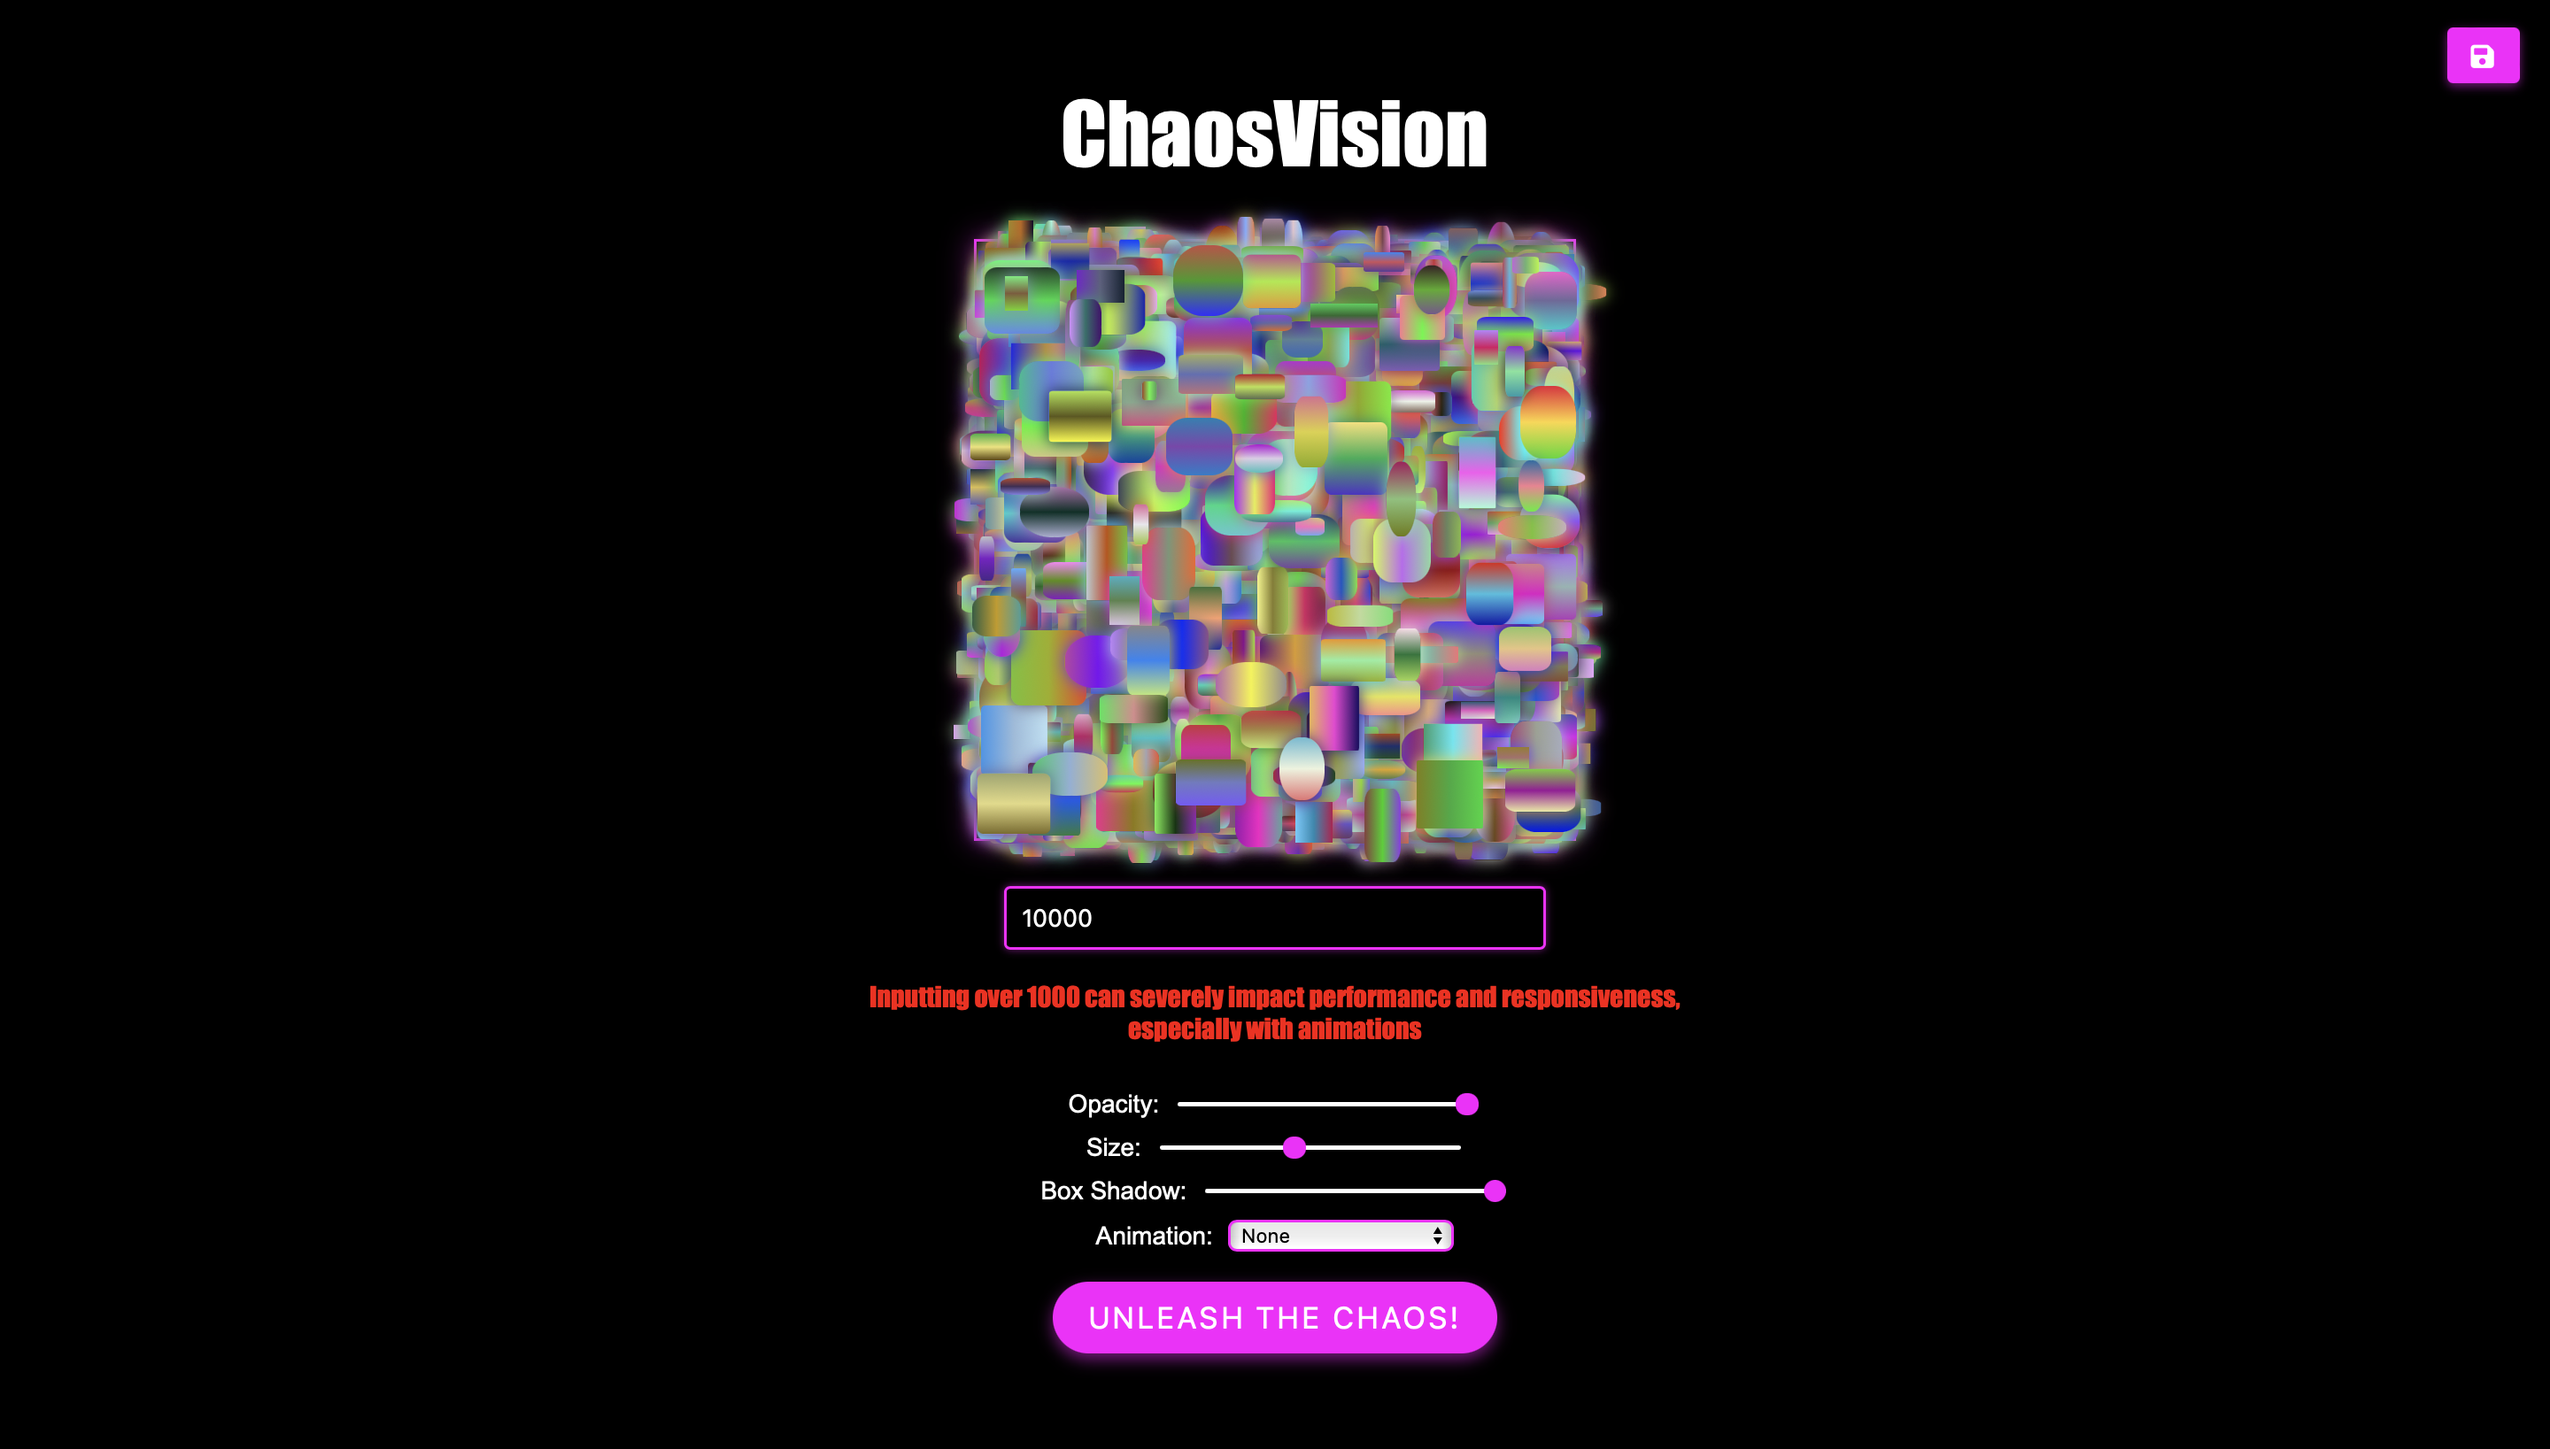
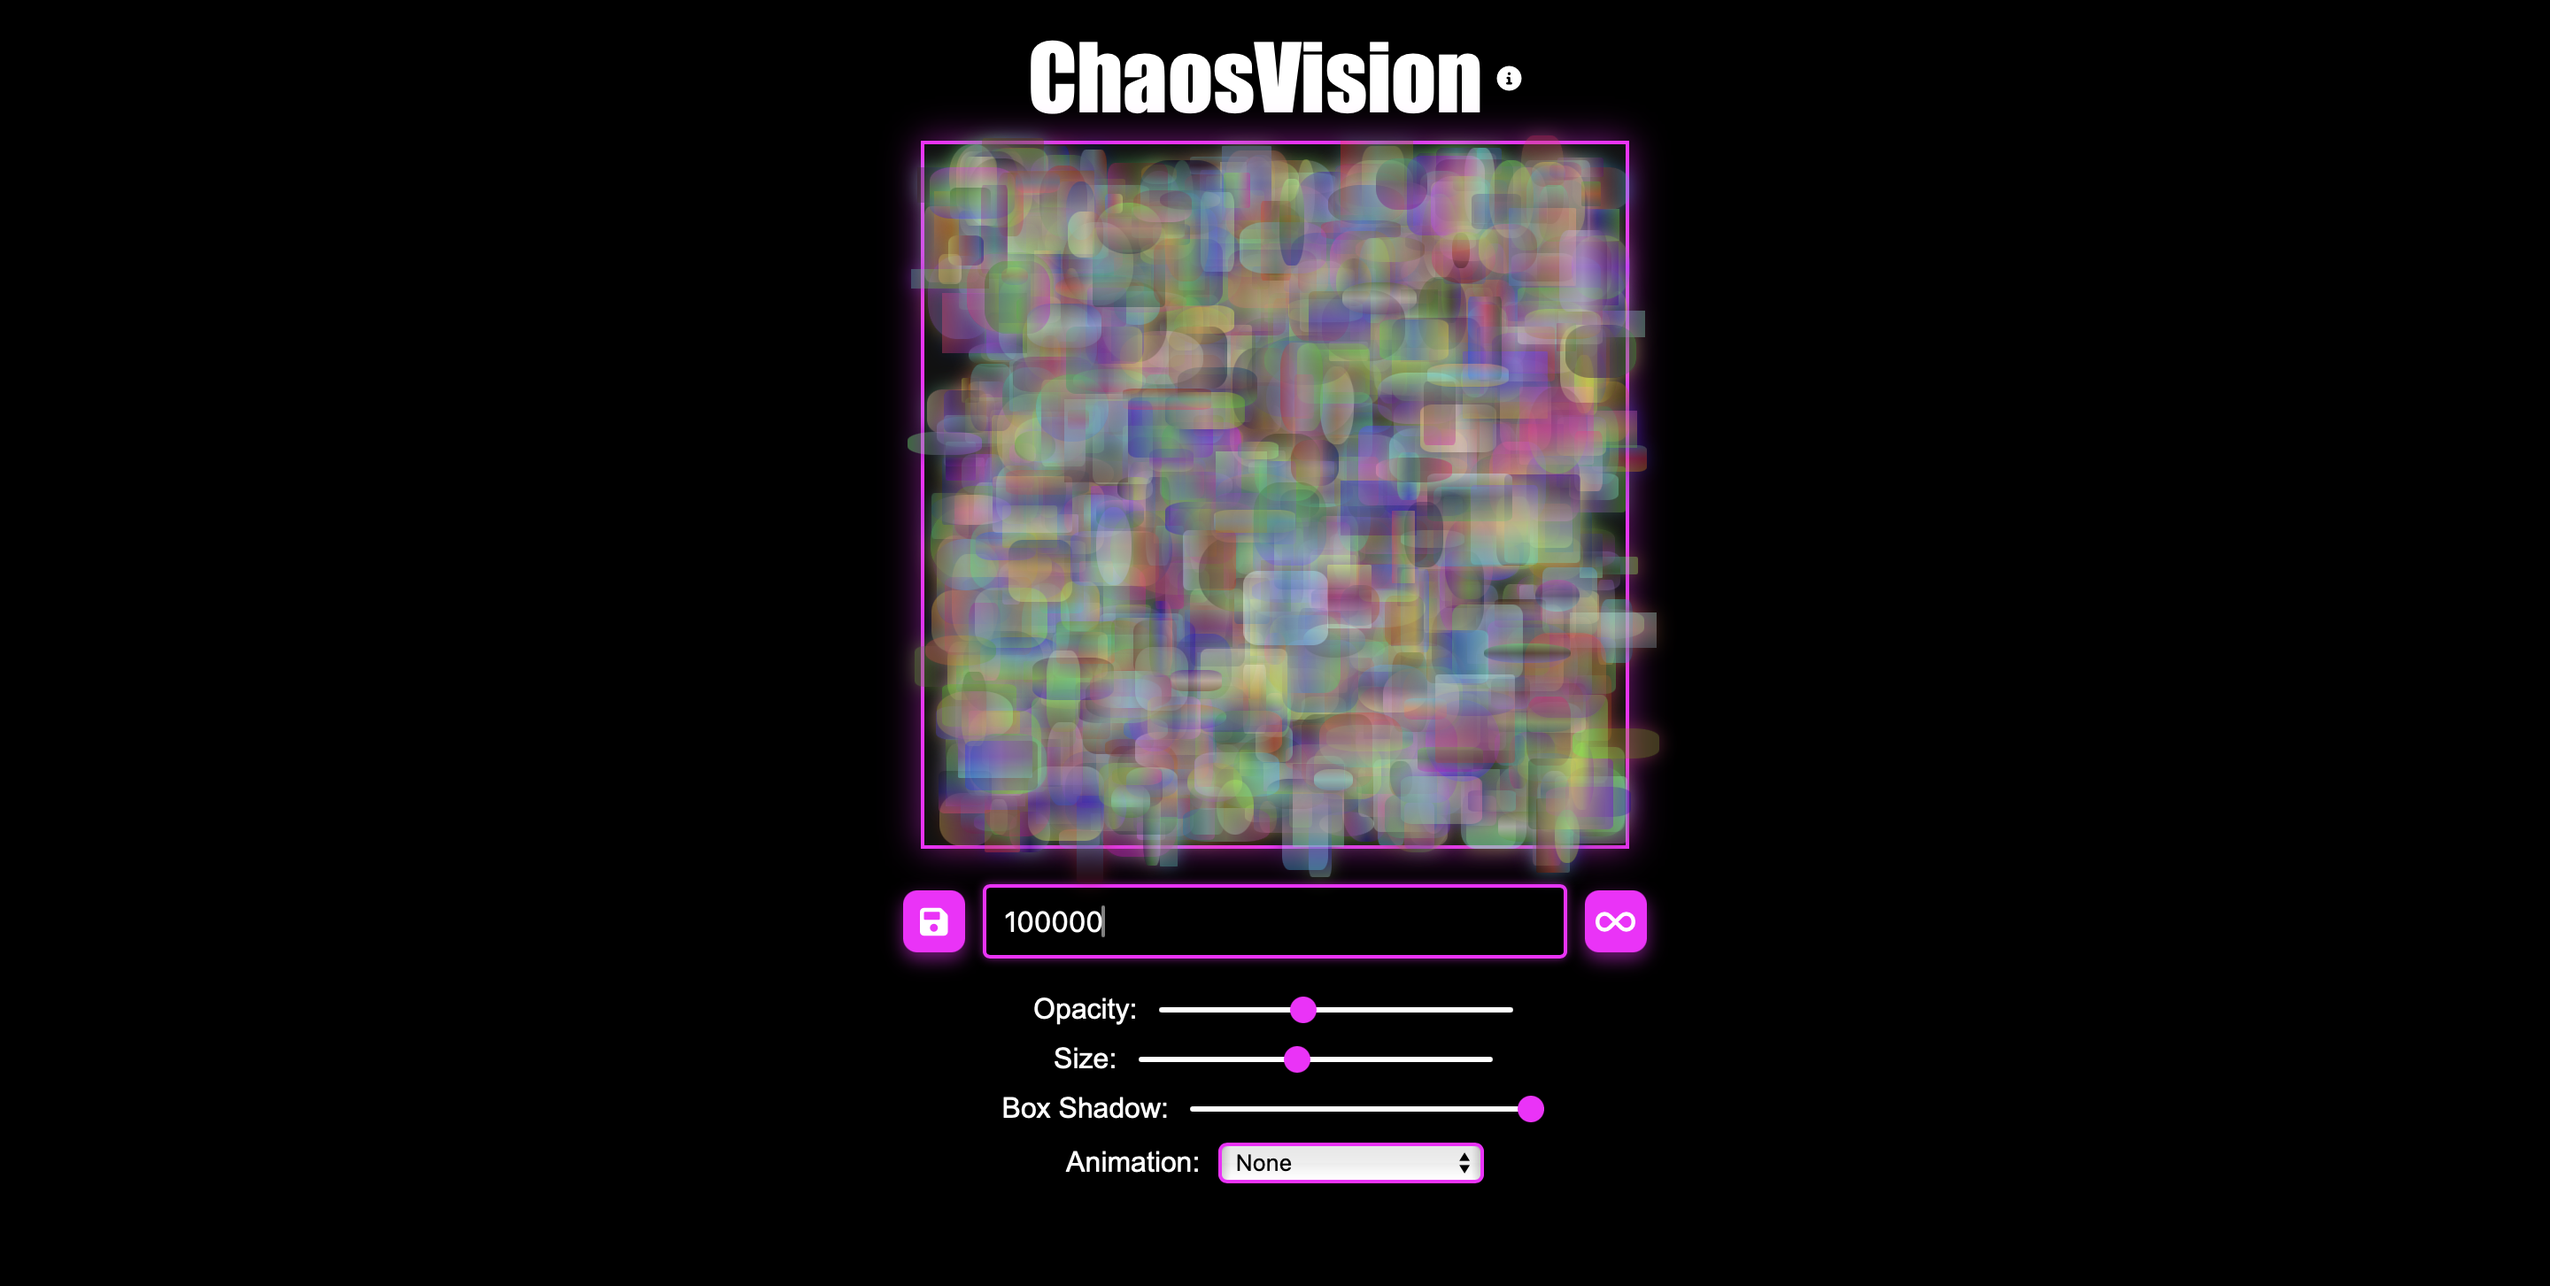
Updated the README according to recent changes

Changed region(s): [[0.3438, 0.031, 0.6562, 0.9601], [0.9375, 0.0, 1.0, 0.0619]]

diff --git a/README.md b/README.md
@@ -2,25 +2,19 @@
 
 ![ChaosVision](ChaosVision.png)
 
-ChaosVision is a web application that harnesses mathematics to discover the beauty hidden within chaos. It generates mesmerising visual patterns by utilising a combination of shapes, opacity, sizes, box shadow, and animation effects. With its intuitive interface, users can explore the creative realm by incorporating numbers and numeric expressions, resulting in intricate and harmonious compositions. 
+Inspired by Chaos Theory, ChaosVision is a web application that uses mathematics to discover the beauty within chaos. It generates chaotic visual patterns through a blend of shapes, opacity, sizes, box shadows, and animations.
+
+This application reflects Chaos Theory principles, where small changes in input lead to different outcomes.
 
 ## Features
-- **Numerically Driven Art Generation:** Create art by entering numbers or numeric expressions.
+- **Numerically Driven Art Generation:** Create art by entering numbers or numeric expressions, with input sanitisation to allow only valid mathematical characters.
 - **Customisable Shape Properties:** Personalise with options to adjust opacity, size, and box shadow.
 - **Dynamic Effects:** Choose from a variety of animations to add captivating visual effects.
-- **Error Handling:** Validate numbers or the results of numeric expressions to ensure they are less than 10,000 and prevent non-numeric inputs.
+- **Error Handling:** Validate numbers or the results of numeric expressions to ensure they are less than 100,000 and prevent non-numeric inputs.
 - **Download Images:** Save the generated art as PNG image files.
 
 ## Accessing ChaosVision
 To access ChaosVision, simply visit the following website: https://sheng254.github.io/ChaosVision/
-
-## Potential Enhancements for the Future
-- Expand the available math functions to include advanced operations like trigonometry, logarithms, and exponentiation, allowing for even more complex and creative expressions.
-- Introduce more shape types, such as polygons, curves, or even custom shapes, to offer a broader range of design possibilities.
-- Improve the performance of the generation process to enhance smooth rendering and responsiveness, particularly when handling large input values.
-
-## Contributing
-Contributions are welcome! Feel free to reach out with your suggestions, bug reports, or feature requests.
 
 ## License
 This project is licensed under the [MIT License](LICENSE).
